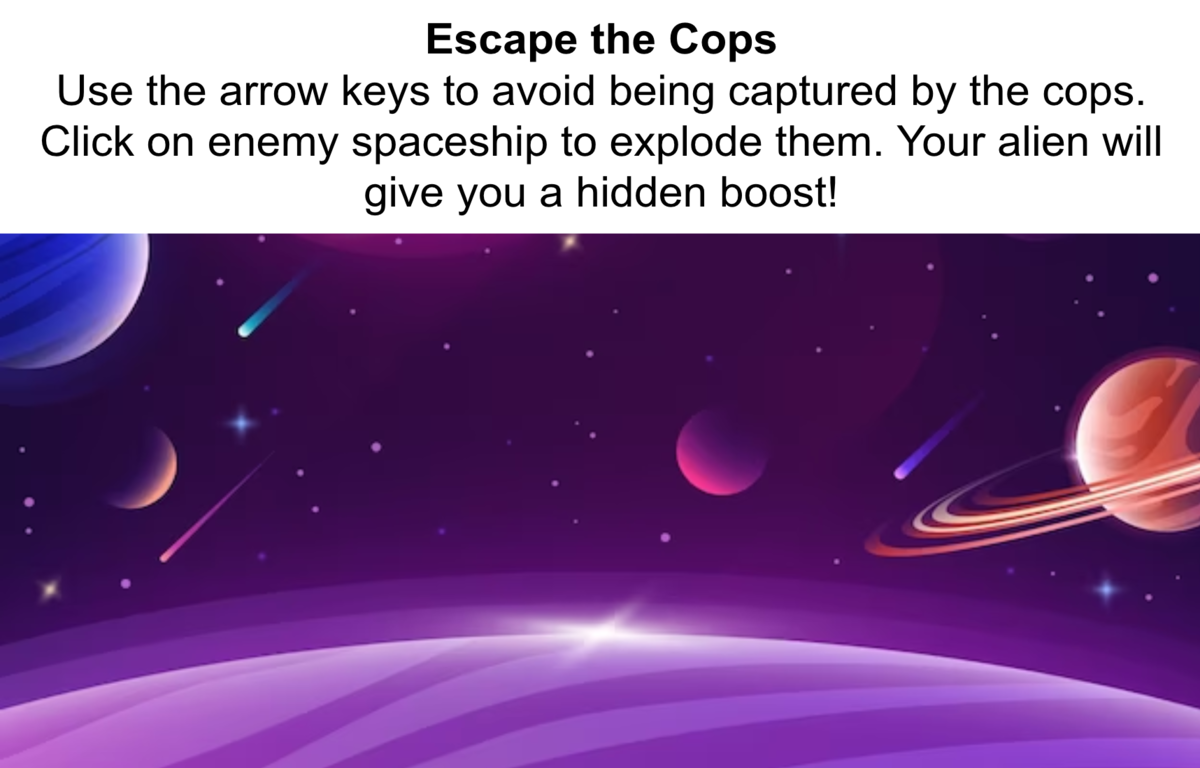
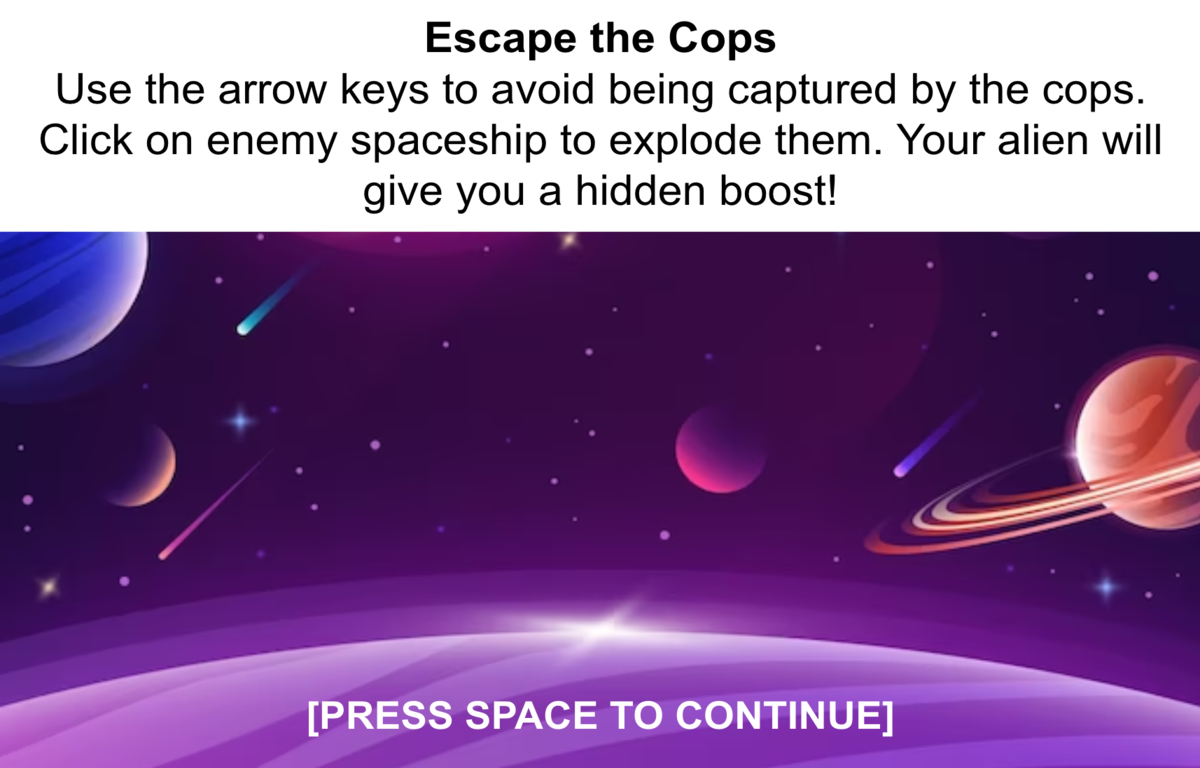
fixing scrapyard

diff --git a/escape_cops_startscreen.py b/escape_cops_startscreen.py
@@ -1,56 +1,33 @@
-import pygame, time
-import gameElements
-        
+import pygame
+
 pygame.init()
 
+# create the screen and its rect object
+screen = pygame.display.set_mode((1200, 768))
+screen_rect = screen.get_rect()
+pygame.display.set_caption("Escape Cops Startscreen")
+
+# load the background and create its rect
 bg_img = pygame.image.load('images/escape_start_background.png')
 bg_rect = bg_img.get_rect()
 
-screen = pygame.display.set_mode((1200, 768))
-screen_rect = screen.get_rect()
-pygame.display.set_caption("")
+# render function
+def render():
+    screen.blit(bg_img, bg_rect)
+    pygame.display.flip()
 
-startButton = gameElements.Button('images/Start.png',(300, 484),130,75,20,4, screen)
-# exitButton = gameElements.Button('images/Big_Exit.png',(900,484),130,75,20,4, screen)
-screen.blit(bg_img, bg_rect)
-
-Black = (0,0,0)
-White = (255,255,255)
-
-# #create text
-# game_status = ''
-# if gameElements.minigame_3_complete == False:
-#     game_status ='INCOMPLETE'
-# elif gameElements.minigame_3_complete == True:
-#     game_status = 'COMPLETE'
-
-# font = pygame.font.Font('PublicPixel-z84yD.ttf', 32)
-# text = font.render(game_status, True, White, Black)
-# textRect = text.get_rect()
-# textRect.center = (600,700)
-
-running = True
 # game loop
+running = True
 while running:
     # event loop
     for event in pygame.event.get():
         if event.type == pygame.QUIT:
             running = False
+            # if the space bar is pressed, move to next scene
+        elif event.type == pygame.KEYDOWN:
+            if event.key == pygame.K_SPACE:
+                exec(open('escape_cops_hard.py').read())
 
-    if startButton.command == True:
-        #if gameElements.minigame_1_complete == False: 
-            exec(open('escape_cops_hard.py').read())
-            startButton.command = False
-        #elif gameElements.minigame_1_complete == True:
-            #startButton.command = False
-    # elif exitButton.command == True:
-    #     exec(open('minigame3_scrapyard.py').read())
-    #     exitButton.command = False
+    render()
 
-    screen.blit(bg_img, bg_rect)
-    # screen.blit(text,textRect)
-    startButton.check_hover()
-    # exitButton.check_hover()
-    pygame.display.flip()
-    time.sleep(0.05)
 pygame.quit()

diff --git a/scrapyard_success.py b/scrapyard_success.py
@@ -1,43 +1,33 @@
-import pygame, time
-import gameElements
+import pygame
 
-        
 pygame.init()
 
+# create the screen and its rect object
+screen = pygame.display.set_mode((1200, 768))
+screen_rect = screen.get_rect()
+pygame.display.set_caption("Build Ship")
+
+# load the background and create its rect
 bg_img = pygame.image.load('images/scrapyard_success_background.png')
 bg_rect = bg_img.get_rect()
 
-screen = pygame.display.set_mode((1200, 768))
-screen_rect = screen.get_rect()
-pygame.display.set_caption("Upgrade Choice")
+# render function
+def render():
+    screen.blit(bg_img, bg_rect)
+    pygame.display.flip()
 
-shieldButton = gameElements.Button('images/Start.png',(300, 484),130,75,20,4, screen)
-speedButton = gameElements.Button('images/Big_Exit.png',(900,484),130,75,20,4, screen)
-screen.blit(bg_img, bg_rect)
-
-Black = (0,0,0)
-White = (255,255,255)
-
-running = True
 # game loop
+running = True
 while running:
     # event loop
     for event in pygame.event.get():
         if event.type == pygame.QUIT:
             running = False
+            # if the space bar is pressed, move to next scene
+        elif event.type == pygame.KEYDOWN:
+            if event.key == pygame.K_SPACE:
+                exec(open('escape_cops_startscreen.py').read())
 
-    if shieldButton.command == True:
-        gameElements.shield_power = True
-        exec(open('escape_cops_startscreen.py').read())
-        shieldButton.command = False
-    elif speedButton.command == True:
-        gameElements.speed_power = True
-        exec(open('escape_cops_startscreen.py').read())
-        speedButton.command = False
+    render()
 
-    screen.blit(bg_img, bg_rect)
-    shieldButton.check_hover()
-    speedButton.check_hover()
-    pygame.display.flip()
-    time.sleep(0.05)
 pygame.quit()
